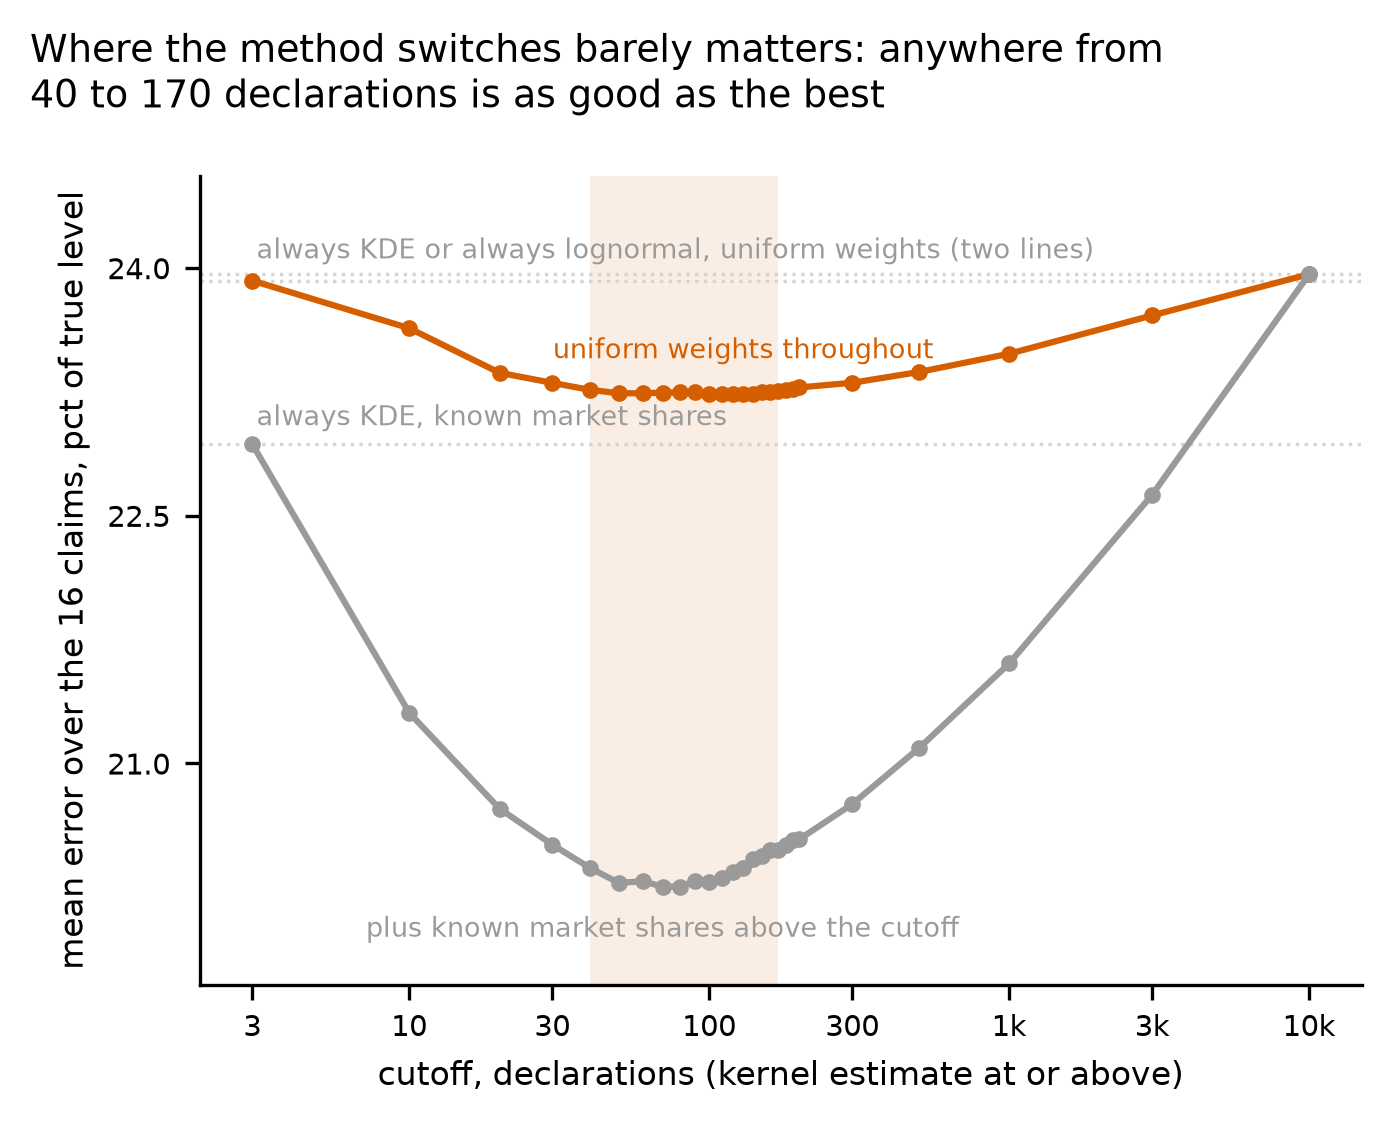
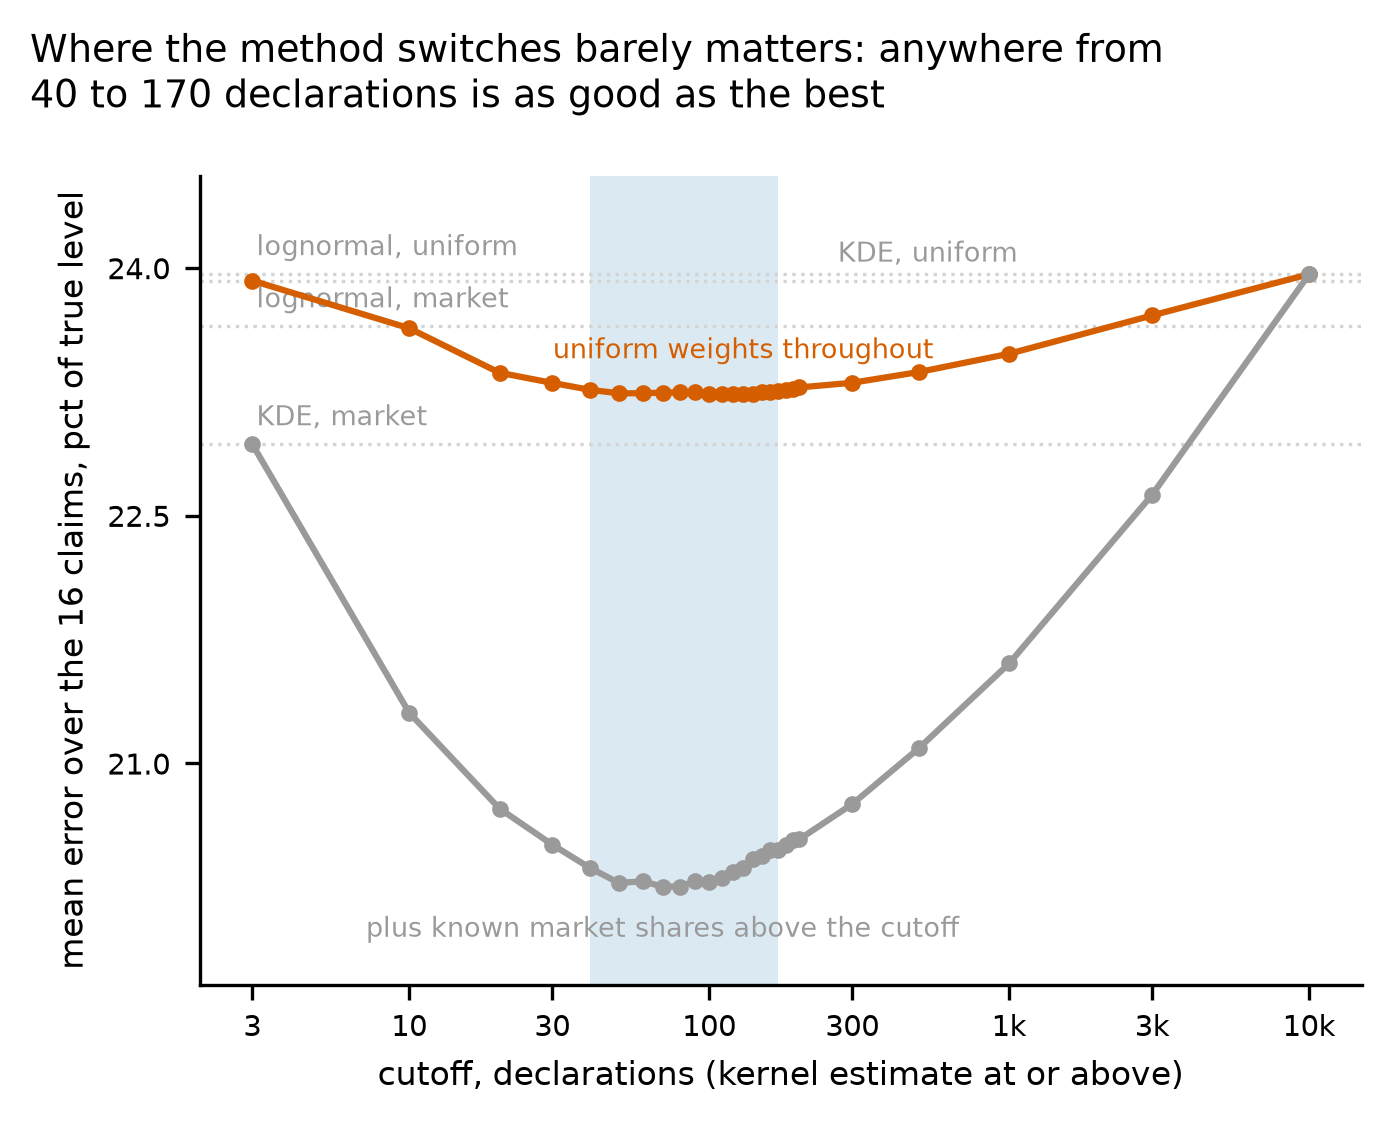
Four labelled reference lines, and no single-declaration threshold anywhere
THE FIGURE DREW THREE LINES AND THE AUTHOR WANTED FOUR, each named. All four
constant choices now get a dotted line and its own label -- lognormal-uniform
23.96, KDE-uniform 23.92, lognormal-market 23.65, KDE-market 22.93 -- with
"always" dropped from every label. The first two are 0.04 points apart, which no
vertical offset separates at a readable font size, so they are separated
HORIZONTALLY: one label at the left edge and one further along its own line.

AND THE BAND IS NO LONGER THE CURVE'S COLOUR. It was the same orange as the
feasible curve, so an orange label could be read as belonging to either; it is
now a neutral blue.

THE PAPER QUOTES TWO NUMBERS AND BOTH ARE RANGES: 40 to 170 declarations for the
family split, 80 to 100 for the weighting one. No single-declaration threshold
is published at either level. The author said this three times and each of my
answers kept a use for 81 alive -- as the claim-level constant, then as a
fit-level argmin that was "still correct", then as something the fit-level text
should also turn into a range. Decision 225 closes it: nothing in the manuscript
prints a single-declaration cutoff. MIXED_THRESHOLD = 80 stays because the code
needs one value to name one policy; it is a constant, not a result.

Changed region(s): [[0.1853, 0.1558, 0.7723, 0.9038], [0.1853, 0.3428, 0.3707, 0.4052]]

diff --git a/reports/STAGE_REPORT_2j.md b/reports/STAGE_REPORT_2j.md
@@ -127,9 +127,9 @@ the cutoff and is not a method. **The vertical gap between them is what knowing
 market share would be worth: about 3 points of the roughly 23 a probabilistic
 LCA gets wrong**, against the 0.73 points the whole choice of cutoff is worth
 across two and a half orders of magnitude. The dotted lines are the fixed
-methods: the two just below 24.0 are always-KDE at 23.92 and always-lognormal at
-23.96, which sit 0.04 apart and share one label, and the lower one at 22.93 is
-always-KDE with known market shares. Both curves' ends land on those lines
+methods, each labelled: lognormal-uniform at 23.96 and KDE-uniform at 23.92,
+which sit 0.04 apart and read as one line at this scale; lognormal-market at
+23.65; and KDE-market at 22.93. Both curves' ends land on those lines
 exactly, because at a cutoff of 3 or 10,000 each rule IS a fixed method. **The
 shaded band is the ORANGE curve's**, 40 to 170; the grey curve's own band is 50
 to 110.
@@ -244,8 +244,8 @@ sample".
 
 **This is the answer to decision 166**, which opened this stage. That decision
 found a fit advantage heavily attenuated by the time it reached a pLCA answer --
-a fit threshold near 81 declarations becoming a claim threshold near 1,000 --
-and named the mechanism: a probabilistic LCA picks ONE method for all four of
+a fit-level crossover around a hundred declarations becoming a claim-level one
+near a thousand -- and named the mechanism: a probabilistic LCA picks ONE method for all four of
 its materials, so one material's advantage is averaged against three neighbours
 drawn at random. Letting the method vary by material removes the averaging, and
 the rule improves the fit and the claims together rather than one at the
@@ -289,9 +289,13 @@ duplicated claim counted twice in the headline (section 3); and the
 indistinguishable band, which was a contest among grid points rather than a
 difference test and so moved when the grid was filled in (decision 224).
 
-**And the reference cutoff is 80, not 81.** 81 is decision 142's FIT-level
-argmin on a dense grid and stays what it is there; carrying it into a
-claim-level sweep was more significant figures than this analysis supports.
+**AND THIS PAPER QUOTES TWO NUMBERS, BOTH RANGES.** 40 to 170 declarations for
+the kernel-estimate-against-lognormal split, and 80 to 100 for where knowing
+market share stops hurting and starts helping. **No single-declaration threshold
+is published** -- not at the claim level and not at the fit level, where the
+earlier point estimate carried the same false precision and the measured band
+was already much wider. `MIXED_THRESHOLD = 80` is a round reference constant the
+code needs in order to name one policy; it is not a result.
 
 ## 8. Still open
 

diff --git a/CLAUDE.md b/CLAUDE.md
@@ -8176,3 +8176,33 @@ rather than in conversation.
      the band is if anything too narrow.
 
          Reproduce: outputs/tables/TABLE_MixedPolicyThreshold.csv, family=feasible
+
+225. **2026-09-30. THE PAPER QUOTES TWO NUMBERS AND BOTH ARE RANGES: 40 to 170
+     declarations for the family split, 80 to 100 for the weighting one. NO
+     SINGLE-DECLARATION THRESHOLD IS PUBLISHED, at either level.** `[AUTHOR]`
+     "81 is not a number worth quoting at all. Too specific. The only numbers
+     we're quoting are 40-170 for KDE/lognormal split and 80-100 for
+     market/uniform split. I don't know why I have to keep reiterating this."
+
+     **The author said it three times and each of my answers kept a use for 81
+     alive**: first as the claim-level constant, then as the fit-level argmin
+     that was "still correct", then as a thing the fit-level text should also
+     turn into a range. The decision is simpler than any of those. **Nothing in
+     the manuscript prints a single-declaration cutoff.**
+
+         THE FAMILY SPLIT        40 to 170 declarations   decision 224
+         THE WEIGHTING SPLIT     80 to 100 declarations   decision 222
+
+     `mixedpolicy.MIXED_THRESHOLD = 80` stays, because the code needs one value
+     to name one policy and to define the reference the gain table is computed
+     at. **It is a constant, not a result**, and no table, figure, caption or
+     sentence presents it as an answer.
+
+     **What this supersedes in presentation only, with no number moving.**
+     Decision 142's 81 and decision 198's reproduction of it are measurements
+     and stand as the record of what was found; what changes is that the FIT
+     level publishes a range too, on the same grounds the author gave for the
+     claim level. Decisions 139, 204, 208, 213, 218 and 220 each printed a point
+     estimate or a narrower range at some stage; 224 and this entry are the
+     final form. **A later stage that finds 81 in a draft should treat it as
+     stale rather than as a result to defend.**

diff --git a/CONTEXT.md b/CONTEXT.md
@@ -901,10 +901,11 @@ materials; this asks what happens when it does not.
 
 **THE RULE IS ONE NUMBER AND IT IS THE STUDY'S OWN.** A kernel estimate with
 market weights at or above `MIXED_THRESHOLD = 80` declarations, a
-three-parameter lognormal with uniform weights below. **80 at the CLAIM level
-from 2026-09-30, decision 224**; decision 142's 81 is a FIT-level argmin on a
-dense grid and stays that, and carrying it into a claim-level sweep was more
-significant figures than the analysis supports. **The rule the paper recommends
+three-parameter lognormal with uniform weights below. **80 from 2026-09-30, decision 224**, and it
+is a round reference constant the code needs in order to name one policy, NOT a
+published result. **The paper quotes two numbers and both are ranges**: 40 to
+170 declarations for the family split and 80 to 100 for where knowing market
+share starts helping. No single-declaration threshold is published. **The rule the paper recommends
 is the FEASIBLE one** -- uniform weights throughout, only the family switching
 -- because nobody publishes market shares (decision 216), and its published
 cutoff range is **40 to 170** (decision 224). `select_method` takes exactly one required argument and a test
